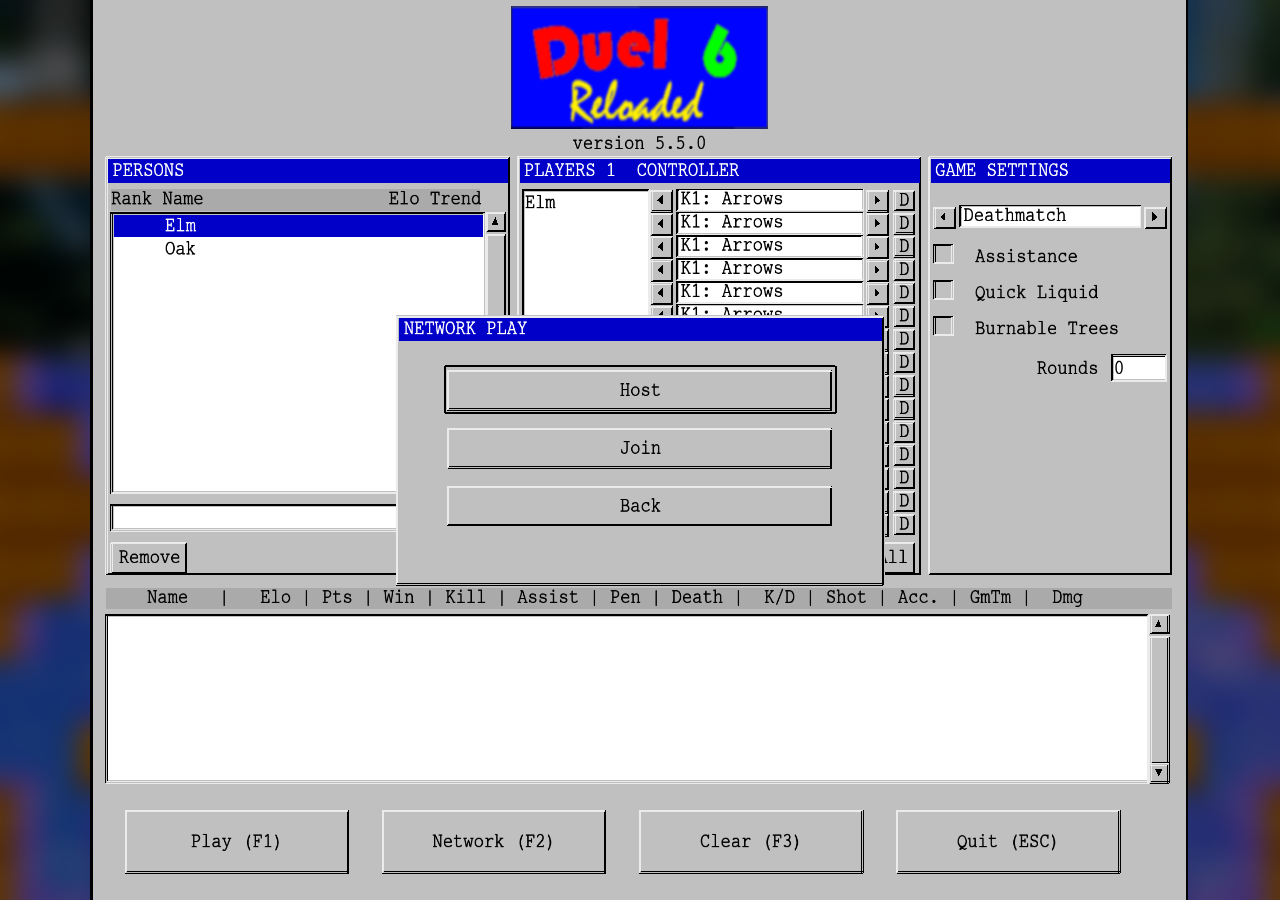
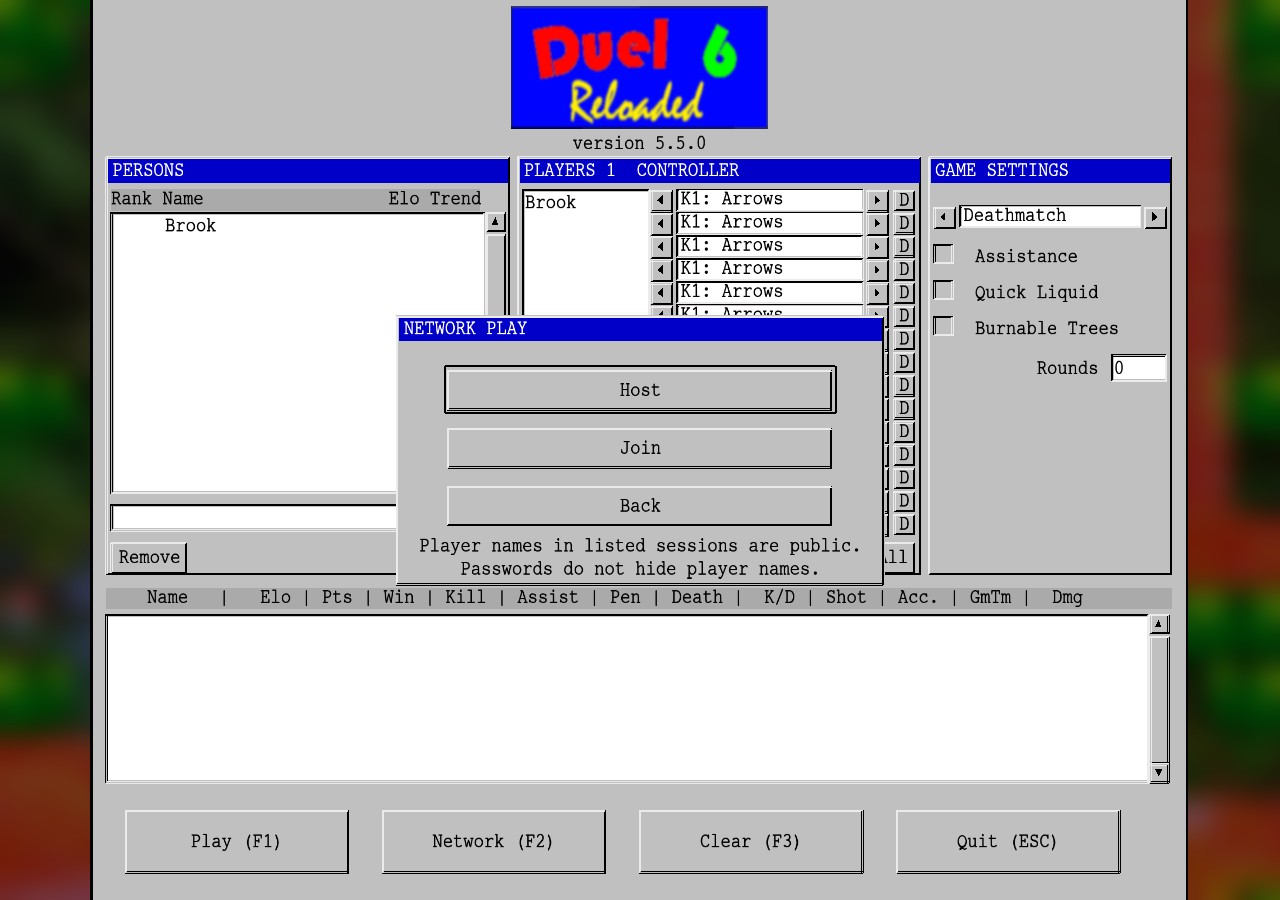
Update NET-01 and NET-10 screenshot representatives

diff --git a/docs/design/screenshots/README.md b/docs/design/screenshots/README.md
@@ -1,6 +1,6 @@
 # Current game screenshots
 
-The [screen inventory](../../screens/README.md) owns screen identities; the [design system](../../design.md) and linked wireframes own visual requirements. This catalog contains **30 of 35** current representatives. Five rows have no current image. The catalog records visible states only; it does not close behavioral, temporal, constrained-viewport, or native-platform acceptance.
+The [screen inventory](../../screens/README.md) owns screen identities; the [design system](../../design.md) and linked wireframes own visual requirements. This catalog records **32 of 35** current representatives. Three rows have no current image. The catalog records visible states only; it does not close behavioral, temporal, constrained-viewport, or native-platform acceptance.
 
 ## Capture standard
 
@@ -11,7 +11,7 @@ Replace a representative at its stable path when its appearance or representativ
 <a id="current-representative-originals"></a>
 ## Current representatives
 
-**Source and profile.** Except for the Browse rows noted below, originals use clean source [`dabdc89774962fac3e4951f46a6c5cfc6a18475a`](https://github.com/mkapusnik-apps/duel6r/commit/dabdc89774962fac3e4951f46a6c5cfc6a18475a), Ubuntu 24.04.5 Linux x86-64 Docker Release GL4/Lua ON, shipped font and assets, private 24-bit Xvfb with software OpenGL, dummy audio, and native keyboard/pointer input. The network worker reported Mesa llvmpipe (LLVM 20.1.2), OpenGL 4.5 Core; this is not a per-frame measurement. Local and owned network scenarios used disposable persons and real game outcomes.
+**Source and profile.** Except for NET-01 and the Browse rows noted below, originals use clean source [`dabdc89774962fac3e4951f46a6c5cfc6a18475a`](https://github.com/mkapusnik-apps/duel6r/commit/dabdc89774962fac3e4951f46a6c5cfc6a18475a), Ubuntu 24.04.5 Linux x86-64 Docker Release GL4/Lua ON, shipped font and assets, private 24-bit Xvfb with software OpenGL, dummy audio, and native keyboard/pointer input. The network worker reported Mesa llvmpipe (LLVM 20.1.2), OpenGL 4.5 Core; this is not a per-frame measurement. Local and owned network scenarios used disposable persons and real game outcomes.
 
[2 lines of base64/hex data omitted]
@@ -34,6 +34,7 @@ Unless otherwise stated, times are UTC on **2026-11-26** at PNG write completion
[7 lines of base64/hex data omitted]
@@ -50,25 +51,27 @@ Unless otherwise stated, times are UTC on **2026-11-26** at PNG write completion
[6 lines of base64/hex data omitted]
 
[2 lines of base64/hex data omitted]
 
-These Browse images show the absence of `LAN-first.` in their producer. They do not establish conformance with that retained copy expectation or verify that a client clears names after they were shown.
[1 lines of base64/hex data omitted]
+
+The Browse images omit `LAN-first.` as in the prior results capture. They do not establish conformance with that retained copy expectation or verify that a client clears names after they were shown.
 
 ## Rows without a current image
 
 | Representative | Disposition |
 |---|---|
-| <a id="current-ss-015"></a>NET-01 · SS-015 | The [pre-roster original][pre-roster] does not show the public-name notice. See the [native capture matrix](../screens/NET-10.md#minimum-native-capture-matrix). |
-| <a id="current-net-10"></a>NET-10 | The [pre-roster original][pre-roster] does not show the two-column details or connected-player listbox. See the [native capture matrix](../screens/NET-10.md#minimum-native-capture-matrix). |
 | <a id="current-ss-019"></a>NET-05 · AP-N / SS-019 | Six-player degraded-but-Connected Guest play was observed on mirrored Duel 16, unlike the unmirrored Local Play reference. No qualifying original shows authoritative Invisibility on both body and held weapon with the opaque comparison. |
 | <a id="current-ss-026"></a>NET-05-C · SS-026 | Withheld: part of the underlying reconnect `End session` button remains visible and clipped below the active confirmation. |
 | <a id="current-net-05-s"></a>NET-05-S | Withheld: the pre-winner score panel clips `Network connection degraded.` in the three-row Listed Host view. The two-row Direct Guest view does not cover that overlap. |
 
 ## Archived evidence
 
+- [Pre-roster NET-01 and NET-10 originals][pre-roster].
 - [Pre-catalog evidence tree][prior-tree], [assessment and focused coverage][prior-manifest], and [legacy SS-* records][legacy]. Earlier findings and provenance apply only to the original bytes and stated scope. For artifacts overwritten before that tree, follow the matching earlier pins in those records.
 - [AP-N role, temporal coverage and open comparisons][arena-matrix] and [FS-G and other final-result evidence limits][final-matrix]. A representative still does not replace these observations or the separate public, role, recovery, and extreme-result requirements.
 - [Accepted public-pilot snapshot and checksums][public-pilot]. Use the pinned checkout with its original checksum paths, not the current catalog.
